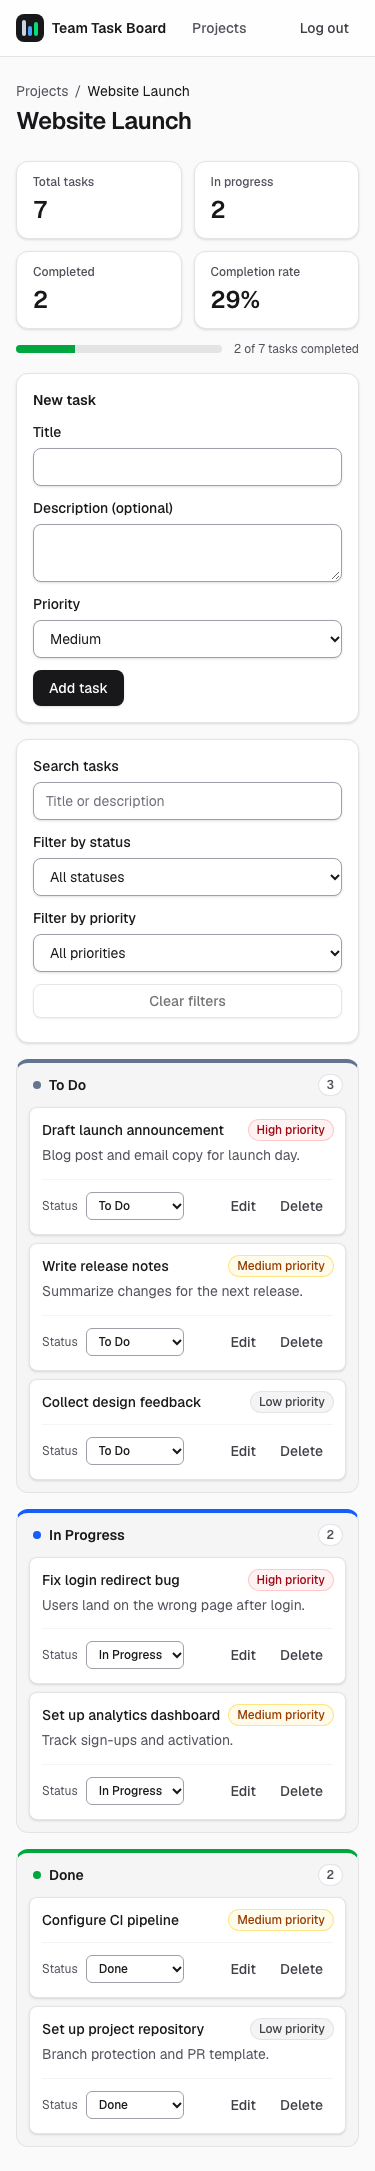
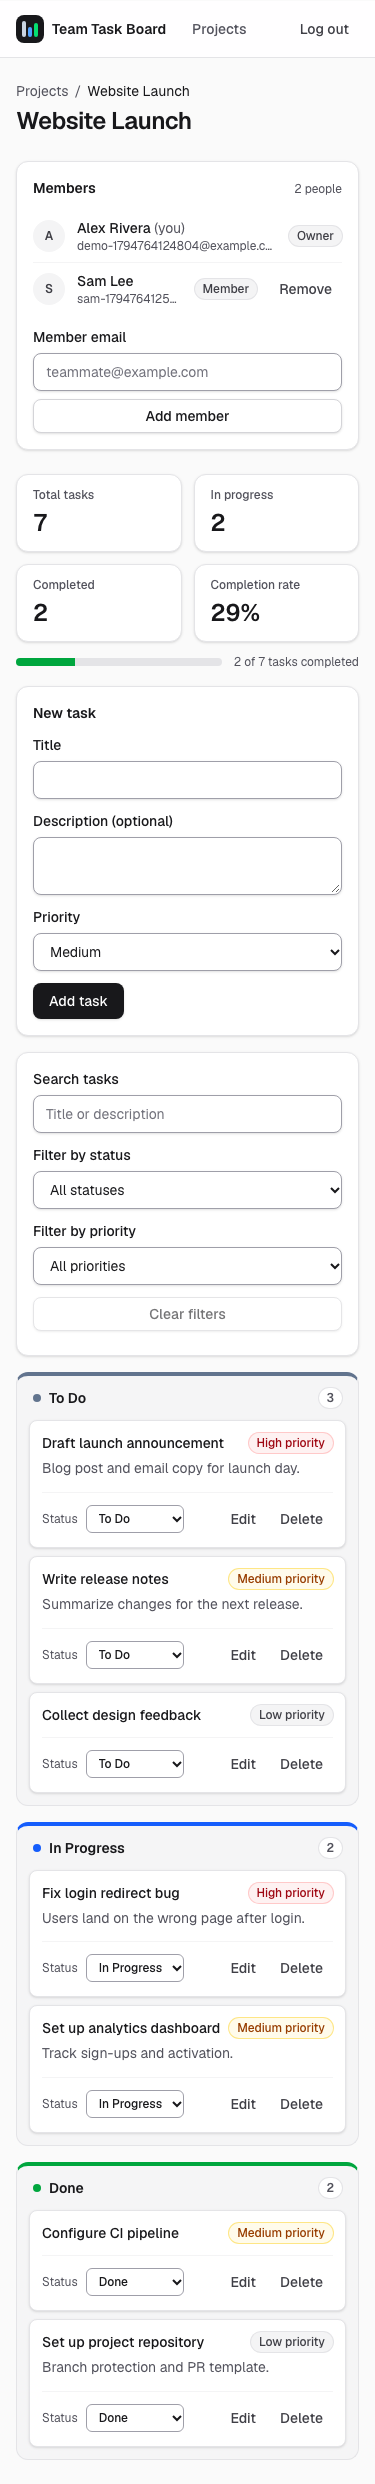
docs(#49): document shared projects and roles in AGENTS.md, the PRD, architecture, DESIGN.md, README, and screenshots
- AGENTS.md v6.2: multi-user sharing is in scope through ProjectMember; queries are scoped by membership; nonmembers get 404 and OWNER-only actions 403.
- PRD: US6 with acceptance criteria; ProjectMember in the data model; scope updated (refresh-based, no email invitations).
- Architecture: membership-based access and immediate revocation; ER diagram adds ProjectMember.
- DESIGN.md: MembersPanel. README: shared projects feature; screenshots show the owner's board with the Members panel and a member's project list.

Refs #49

diff --git a/AGENTS.md b/AGENTS.md
@@ -1,6 +1,6 @@
 # AGENTS.md — Team Task Board
 
-<!-- Shared rules for AI assistants and humans. Maintainer: Haomiao Shi (with Tyler Sarna through Sprint 1) · v6.1 (§12).
+<!-- Shared rules for AI assistants and humans. Maintainer: Haomiao Shi (with Tyler Sarna through Sprint 1) · v6.2 (§12).
      Tool: Visual Studio Code + GitHub Copilot Chat (§11). Loads on every request: keep under ~200 lines and link to docs/.
      Change only through its own self-reviewed PR (§7); revisit at every retro. This file is the tiebreaker. -->
 
@@ -28,7 +28,7 @@ npx prisma validate  # from #1; run `npx prisma generate` after any schema chang
 Team Task Board is a minimal Kanban app: users group work into projects and move tasks **To Do → In Progress → Done**. CS6983 pair project, continued solo by Haomiao Shi from Sprint 2 with the instructor's approval after Tyler Sarna left the course. Sprint 1: Oct 26 – Nov 2, 2026. Sprint 2: Nov 3 – Nov 13, 2026: internal Sprint 2 deadline Fri Nov 13, 11:30 PM PST, for all Sprint 2 issues, tests, docs, and PRs. Official Canvas Project 2 deadline: Sun Nov 15, 2026, 11:59 PM PST (Mon Nov 16, 2:59 AM EST).
 - Requirements (US1–US5, acceptance criteria, data model §6): `docs/prd.md`. UI spec: `DESIGN.md` and `docs/mockups/` (`board.png` 1280px, `board-mobile.png` 375px, `board.html` if you cannot view images).
 - Work tracking: GitHub Issues + Project "Team Task Board". **The issue assignee owns the issue** and the files it creates; ownership is never set in this file.
-- Out of scope unless a tracked issue adds it: drag-and-drop, WebSockets, notifications, team invitations, multi-user sharing.
+- Out of scope unless a tracked issue adds it: drag-and-drop, WebSockets, notifications, email invitations. Multi-user sharing is in scope through project memberships (#49): add existing accounts by email, OWNER/MEMBER roles, refresh-based.
 
 ## 2. Stack
 Major versions: **Next.js 16** (App Router), **React 19**, **TypeScript 5** (strict), **Tailwind CSS 4**, **Prisma 7** (from #1), **PostgreSQL**, **Vitest 5** + Testing Library, **Playwright 1**, ESLint 9. Exact versions: `package.json` / `package-lock.json` only. Do not upgrade without an issue.
@@ -142,7 +142,7 @@ docs/                       prd.md, mockups/, api/openapi.yaml, architecture.md,
 - CI/deploy work is done only after checking the actual GitHub Actions run, Vercel deployment, and `/api/v1/health`.
 
 ## 9. Security and accessibility
-- Validate every request body with zod at the route boundary. Hash passwords with `bcryptjs`; JWT (`jose`) in `httpOnly`, `Secure`, `SameSite=Lax` cookies. Scope every query by the owner's user id; other users' resources return **404**, not 403.
+- Validate every request body with zod at the route boundary. Hash passwords with `bcryptjs`; JWT (`jose`) in `httpOnly`, `Secure`, `SameSite=Lax` cookies. Scope every project, task, and member query by the caller's membership (`getRole`/`memberOf` in `src/server/services/memberships.ts`); resources in projects the caller does not belong to return **404**, never 403. OWNER-only actions return **403** to a MEMBER.
 - Secrets come only from environment variables; never log tokens or passwords. A committed secret must be rotated, not just deleted. No analytics, external scripts, or network calls the issue does not require.
 - WCAG 2.1 AA: one `<h1>`, `<h2>` per column, `<h3>` per card; every control has an accessible name; keyboard operable with visible `focus-visible` styles; color never the only signal; text contrast ≥ 4.5:1 (`text-zinc-600` or darker on white).
 
@@ -168,6 +168,7 @@ Not required, and never a reason to add dependencies without an issue:
 
 ## 12. Maintenance and changelog
 Changes go through a PR that is self-reviewed with green CI (§7). Update the PRD, OpenAPI, `DESIGN.md`, and this file together when decisions change. Personal HW3 experiments and reflections stay out of this file.
+- **v6.2 (2026-11-15, #49):** multi-user sharing moves into scope: access comes from `ProjectMember` (OWNER/MEMBER) instead of `Project.ownerId`; nonmembers still get 404; OWNER-only actions get 403.
 - **v6.1 (2026-11-14, #23):** deadline correction. Nov 13, 11:30 PM PST is only the internal Sprint 2 deadline; the official Canvas Project 2 deadline is Sun Nov 15, 2026, 11:59 PM PST (Mon Nov 16, 2:59 AM EST). The v6 entry below is kept as written.
 - **v6 (2026-11-11, solo):** Tyler Sarna left the course; with the instructor's approval Haomiao Shi finishes Sprint 2 alone. Partner review is replaced by a recorded self-review plus green CI; PO/SM no longer rotate; Sprint 2 internal and Canvas deadlines both Fri Nov 13, 2026, 11:30 PM PST.
 - **v5 (2026-11-03, #3):** hosted database is Neon (resolves the Supabase/Neon conflict); migrations run during each Vercel build instead of a manual production step.

diff --git a/docs/architecture.md b/docs/architecture.md
@@ -19,7 +19,7 @@ flowchart TD
   DB -->|"@prisma/adapter-pg"| PG[("PostgreSQL")]
 ```
 
-Server components read their initial data by calling the same services directly, with the user id from `getCurrentUserId()` (`src/server/auth/current-user.ts`). Client components change data only through `/api/v1`: the projects page then calls `router.refresh()` to re-render, and the board updates its own state from the API response (see *Board state*). Each service function takes the owner's user id and filters every query on it, so another user's resource looks exactly like a missing one (404). Route handlers are wrapped in `withErrorHandling` (`src/server/http.ts`), which logs unexpected errors on the server and returns a generic `500 INTERNAL_ERROR`.
+Server components read their initial data by calling the same services directly, with the user id from `getCurrentUserId()` (`src/server/auth/current-user.ts`). Client components change data only through `/api/v1`: the projects page then calls `router.refresh()` to re-render, and the board updates its own state from the API response (see *Board state*). Each service function takes the caller's user id and checks membership in the project (`getRole` in `src/server/services/memberships.ts`, a `ProjectMember` lookup) before reading or writing, so a project, task, or member the caller does not belong to looks exactly like a missing one (404). OWNER-only actions (deleting a project, adding or removing members) return 403 to a MEMBER. Removing a membership revokes access on the next request, because nothing is cached in the JWT except the user id. Route handlers are wrapped in `withErrorHandling` (`src/server/http.ts`), which logs unexpected errors on the server and returns a generic `500 INTERNAL_ERROR`.
 
 `src/server/db.ts` builds one `PrismaClient` with the `PrismaPg` driver adapter from `DATABASE_URL`, cached on `globalThis` outside production so Next.js hot reload does not open new connection pools.
 
@@ -68,8 +68,10 @@ Source: `prisma/schema.prisma`; migrations in `prisma/migrations/`.
 
 ```mermaid
 erDiagram
-  User ||--o{ Project : owns
+  User ||--o{ Project : creates
   Project ||--o{ Task : contains
+  Project ||--o{ ProjectMember : "has members"
+  User ||--o{ ProjectMember : "belongs to"
 
   User {
     String id PK "cuid"
@@ -82,6 +84,12 @@ erDiagram
     String id PK "cuid"
     String name
     String ownerId FK "on delete cascade"
+    DateTime createdAt
+  }
+  ProjectMember {
+    String projectId PK,FK "on delete cascade"
+    String userId PK,FK "on delete cascade"
+    ProjectRole role "OWNER | MEMBER, default MEMBER"
     DateTime createdAt
   }
   Task {

diff --git a/DESIGN.md b/DESIGN.md
@@ -55,6 +55,7 @@ Calm, modern, utilitarian, in the spirit of Linear and Notion. Neutral surfaces 
 | Buttons | From `src/components/ui/button-styles.ts`: `PRIMARY_BUTTON` (zinc-900, white text), `SECONDARY_BUTTON` (white, `border-zinc-300`), `GHOST_BUTTON` (text only, `hover:bg-zinc-100`), `DANGER_BUTTON` (red-700). All `rounded-lg text-sm font-medium` with the focus ring. Submit buttons show a small spinner while pending. |
 | Inputs | `INPUT`: `rounded-lg border border-zinc-400 bg-white px-3 py-2 text-sm shadow-sm`; label `text-sm font-medium` above; hint `text-xs text-zinc-600`. |
 | `ProjectOverview` | `role="group"` named "Project overview"; a `<dl>` of four stat cards (`bg-white border border-zinc-200 rounded-xl px-4 py-3 shadow-sm`; label `text-xs text-zinc-600`, value `text-2xl font-semibold tabular-nums`) in `grid-cols-2 sm:grid-cols-4`; then a native `<progress>` (`h-2 rounded-full`, track `bg-zinc-200`, fill `bg-green-600`) named "Completion rate" with an "X of Y tasks completed" caption. |
+| `MembersPanel` | Above the overview: `<section aria-label="Project members">` card (no heading element, so the page keeps one `<h1>` and only column `<h2>`s). Each member row: initial avatar (decorative), name ("(you)" for the viewer), email in muted text, role pill **Owner** / **Member**; the owner sees a ghost **Remove** (named "Remove {name}") on member rows and an **Add member** form (labeled "Member email"); a member sees **Leave project** with an inline red confirmation (**Confirm leave** / Cancel). |
 | `PriorityBadge` | Beside the card title: `rounded-full px-2 py-0.5 text-xs font-medium ring-1` with the text **"High priority" / "Medium priority" / "Low priority"** (never color alone). High `bg-red-50 text-red-800 ring-red-200`, Medium `bg-amber-50 text-amber-800 ring-amber-200`, Low `bg-zinc-100 text-zinc-700 ring-zinc-200`. Cards in a column are ordered High → Medium → Low. |
 | Priority select | In the add and edit forms, after the description: labeled **Priority**, options High / Medium / Low, default Medium. |
 | `TaskFilters` | Between the New task form and the columns: `role="search"` named "Filter tasks"; a card (`bg-white border border-zinc-200 rounded-xl p-4 shadow-sm`) with a labeled `type="search"` input ("Search tasks", placeholder "Title or description"), a "Filter by status" select (All statuses + the three statuses), a "Filter by priority" select (All priorities, High, Medium, Low), and a secondary **Clear filters** button (disabled with no active filter); below, a `role="status"` line "Showing X of Y tasks" while filtering. Empty columns then say **"No matching tasks"**. |

diff --git a/docs/prd.md b/docs/prd.md
@@ -50,6 +50,12 @@ Small teams lose track of who is doing what when tasks live in chat threads and 
 - [ ] Every `/api/v1` endpoint is described in an OpenAPI 3 document, viewable at `/api/docs`.
 - [ ] Errors use the shape `{ "error": { "code": string, "message": string } }`.
 
+**US6. Shared projects and roles** (added after Sprint 2, #49)
+- [x] The owner adds an existing user to a project by email; the project then appears in both users' project lists.
+- [x] OWNER and MEMBER can view the board and create, edit, move, and delete tasks; only the OWNER can delete the project or add and remove members (a MEMBER gets 403).
+- [x] A user who is not a member gets 404 for the project, its tasks, and its members, even with a direct link or id.
+- [x] Removing a member revokes access on the next request; a member can leave a project; the owner cannot be removed.
+
 ## 4. Design reference
 
 - Mockup: [`docs/mockups/board.png`](mockups/board.png) (1280px) and [`docs/mockups/board-mobile.png`](mockups/board-mobile.png) (375px). The source is [`docs/mockups/board.html`](mockups/board.html).
@@ -58,15 +64,18 @@ Small teams lose track of who is doing what when tasks live in chat threads and 
 
 ## 5. MVP scope
 
-**In scope:** US1–US5.
+**In scope:** US1–US5, plus US6 (shared projects and roles), added after Sprint 2.
 
-**Explicitly out of scope:** drag-and-drop, real-time sync or WebSockets, notifications, team invitations and roles, due dates, comments, file attachments, OAuth providers, mobile apps.
+**Explicitly out of scope:** drag-and-drop, real-time sync or WebSockets (collaboration is refresh-based), notifications, email invitations (members are added by the email of an existing account), due dates, file attachments, OAuth providers, mobile apps.
 
 ## 6. Data model (Prisma, planned for Sprint 1)
 
 ```
 User    (id, email unique, name, passwordHash, createdAt)
-Project (id, name, ownerId → User, createdAt)                 on delete cascade
+Project (id, name, ownerId → User (creator), createdAt)       on delete cascade
+ProjectMember (projectId → Project, userId → User, role OWNER|MEMBER default MEMBER, createdAt)
+        primary key (projectId, userId), index (userId), both on delete cascade (#49)
+        access to a project and its tasks comes only from this table
 Task    (id, projectId → Project, title, description?, status TODO|IN_PROGRESS|DONE,
          priority LOW|MEDIUM|HIGH default MEDIUM (#47),
          createdAt, updatedAt)                                  index (projectId, status)

diff --git a/README.md b/README.md
@@ -13,9 +13,10 @@ A minimal Kanban task board. Users sign up, group work into projects, and move t
 ## Features
 
 - **Accounts** (#4): register and log in; the session is a JWT in an httpOnly cookie (Bearer tokens also work for API clients). Every page except `/login` and `/register` requires a session.
-- **Projects** (#5): create and delete your own projects (deleting asks for confirmation and removes its tasks). Other users' projects are invisible (404).
+- **Projects** (#5): create projects and delete the ones you own (deleting asks for confirmation and removes its tasks). Projects you are not a member of are invisible (404).
 - **Board** (#6, #8): three columns with counts and an empty state; change a task's status from its dropdown. The card moves at once and is saved through the API; if saving fails, it moves back and an error is shown.
 - **Project overview** (#40): above the board, cards show total tasks, in progress, completed, and the completion rate, with a progress bar. They are derived from the board's tasks and update as soon as a card moves.
+- **Shared projects and roles** (#49): the owner adds teammates by the email of their existing account; the project appears in everyone's list ("Shared with you"). Owners and members both work on tasks; only the owner deletes the project or manages members, and members can leave. Anyone else gets 404, even with a direct link. Removing a member revokes access immediately; collaboration is refresh-based.
 - **Priority** (#47): every task is Low, Medium, or High priority (Medium by default), shown as a text badge on its card; each column lists High first, then Medium, then Low. Set it when adding a task or edit it later.
 - **Search and filter** (#45): a search box matches task titles and descriptions, status and priority filters narrow the columns, and Clear filters resets all three; a live message shows how many tasks match. Filtering happens in the browser, so the overview still counts every task.
 - **Tasks** (#7, #9): add a task (title required, description optional), edit its title and description, and delete it after confirming.
